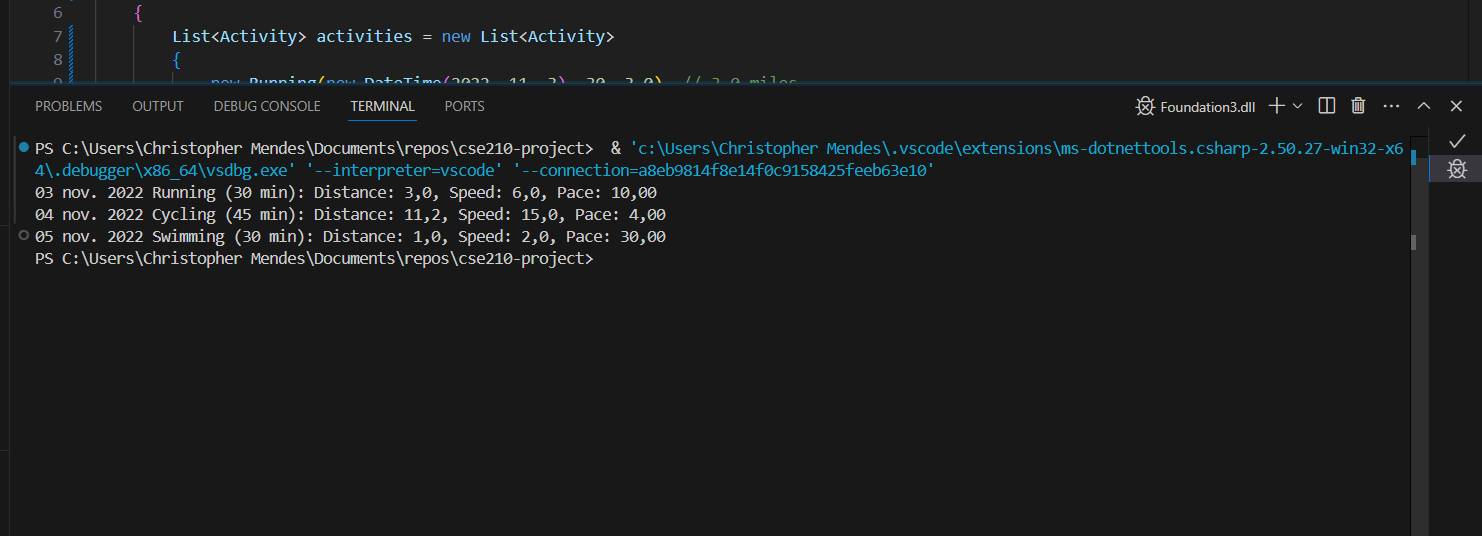
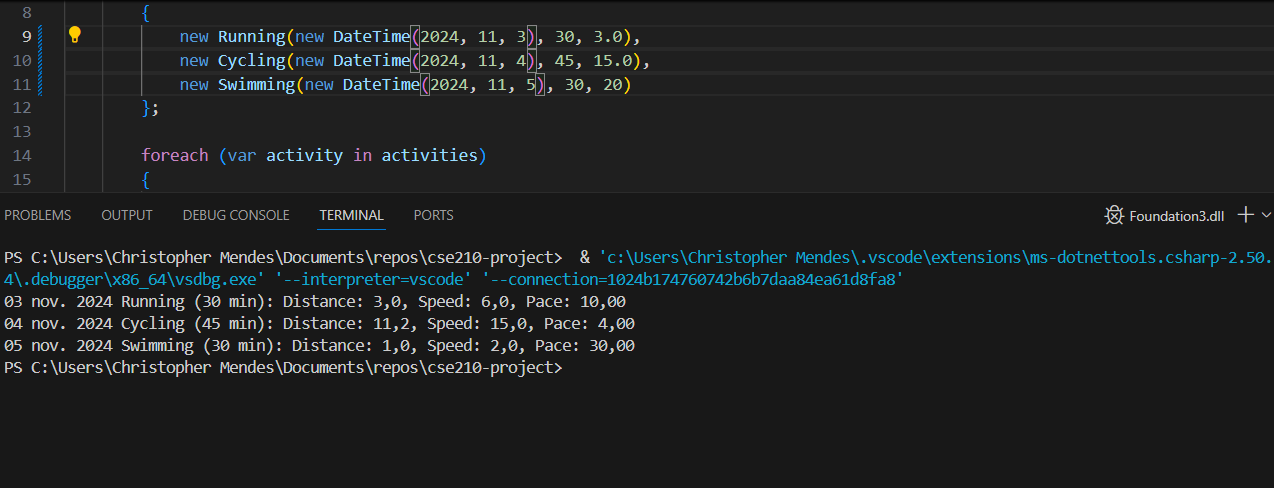
Final Foundation: Inheritance and Polymorphism with Exercise Tracking

diff --git a/foundation/Foundation3/Program.cs b/foundation/Foundation3/Program.cs
@@ -6,9 +6,9 @@ public class Program
     {
         List<Activity> activities = new List<Activity>
         {
-            new Running(new DateTime(2022, 11, 3), 30, 3.0),
-            new Cycling(new DateTime(2022, 11, 4), 45, 15.0),
-            new Swimming(new DateTime(2022, 11, 5), 30, 20)
+            new Running(new DateTime(2024, 11, 3), 30, 3.0),
+            new Cycling(new DateTime(2024, 11, 4), 45, 15.0),
+            new Swimming(new DateTime(2024, 11, 5), 30, 20)
         };
 
         foreach (var activity in activities)
